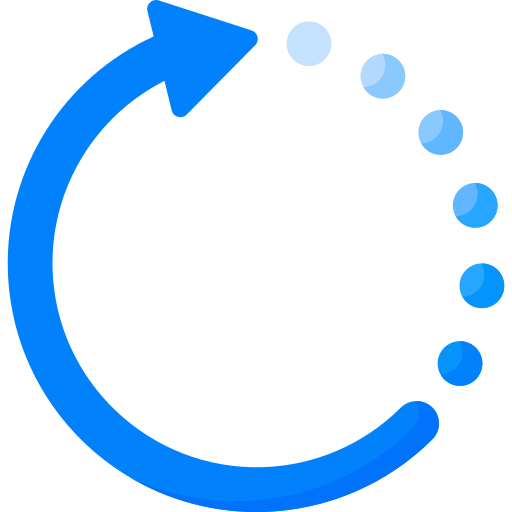
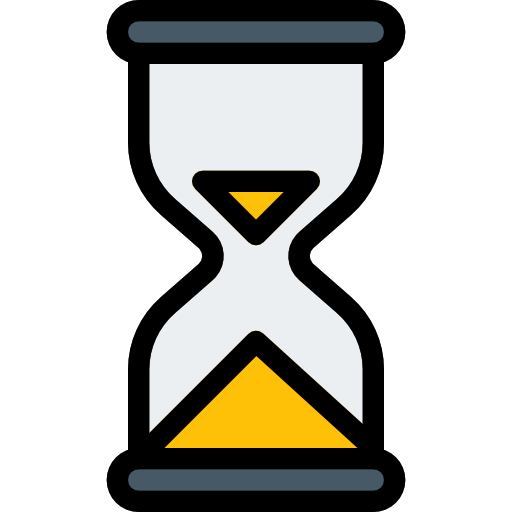
"son hal alındı.  "

diff --git a/lib/akvaryum.dart b/lib/akvaryum.dart
@@ -227,7 +227,7 @@ class _AquariumState extends State<Aquarium> {
                       children: [
                         Text(
                           "Bitkili Akvaryum : " +
-                              bitkili.toStringAsFixed(0) +
+                              bitkili.toStringAsFixed(1) +
                               " Watt",
                           style: TextStyle(
                             fontSize: 15,
@@ -237,7 +237,7 @@ class _AquariumState extends State<Aquarium> {
                         ),
                         Text(
                           "Bitkisiz Akvaryum : " +
-                              bitkisiz.toStringAsFixed(0) +
+                              bitkisiz.toStringAsFixed(1) +
                               " Watt",
                           style: TextStyle(
                             fontSize: 15,
@@ -310,7 +310,7 @@ class _AquariumState extends State<Aquarium> {
                       textAlign: TextAlign.center,
                     ),
                     subtitle: Text(
-                      "${isitici.toStringAsFixed(0)} Watt",
+                      "${isitici.toStringAsFixed(1)} Watt",
                       style:
                           TextStyle(fontSize: 17, fontWeight: FontWeight.bold),
                       textAlign: TextAlign.center,
@@ -354,7 +354,7 @@ class _AquariumState extends State<Aquarium> {
                         Expanded(
                           flex: 2,
                           child: Text(
-                            "İstediğiniz Kalınlık İçin Gerekli Kum : ${kumKg.toStringAsFixed(0)} Kg",
+                            "İstediğiniz Kalınlık İçin Gerekli Kum : ${kumKg.toStringAsFixed(1)} Kg",
                             style: TextStyle(
                                 fontSize: 15, fontWeight: FontWeight.bold),
                             textAlign: TextAlign.center,

diff --git a/lib/main.dart b/lib/main.dart
@@ -1,6 +1,3 @@
-import 'package:device_preview/device_preview.dart';
-import 'package:flutter/foundation.dart';
-import 'package:flutter/services.dart';
 
 import 'package:flutter/cupertino.dart';
 
@@ -153,11 +150,11 @@ class _HomePageState extends State<HomePage> {
               height: 70,
             ),
           ),
-          GorevButonlari(text:Text(" "),image: Center(
+          GorevButonlari(text:Text(""),image: Center(
             child: Container(alignment: Alignment.center,
               child: Image(
                   image: AssetImage("assets/loading.png"),
-                  height: 70,),
+                  height: 80,),
             ),
           ),
             navigator: () {
